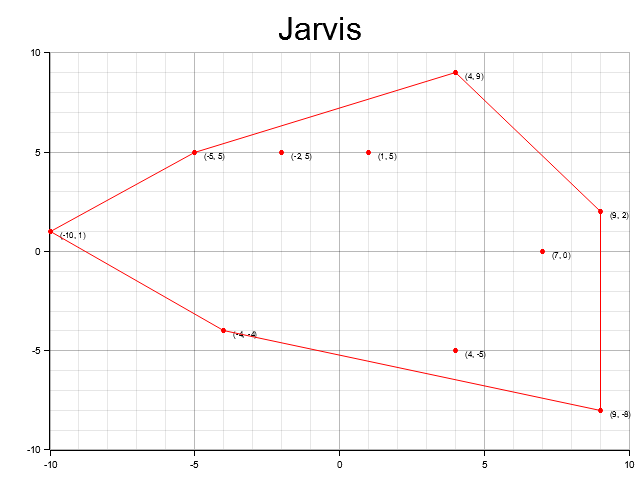
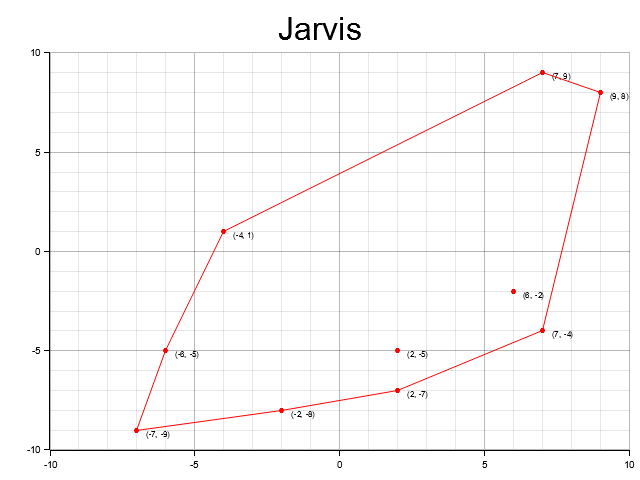
gen random points now has a count of points

diff --git a/src/main.rs b/src/main.rs
@@ -5,10 +5,10 @@ use jarvis::jarvismarch;
 use plotters::prelude::*;
 use point::Point;
 
-fn generate_random_points() -> Vec<Point> {
+fn generate_random_points(count_of_points: i32) -> Vec<Point> {
     let mut rng = rand::thread_rng();
     let mut points: Vec<Point> = Vec::new();
-    for _ in 0..10 {
+    for _ in 0..count_of_points {
         points.push(rng.gen::<Point>())
     }
     points
@@ -32,7 +32,7 @@ fn main() -> Result<(), Box<dyn std::error::Error>> {
         .y_label_formatter(&|x| format!("{:.3}", x))
         .draw()?;
 
-    let points = generate_random_points();
+    let points = generate_random_points(10);
 
     chart.draw_series(PointSeries::of_element(
         Point::get_tuples(points.clone()),

diff --git a/src/jarvis.rs b/src/jarvis.rs
@@ -14,7 +14,7 @@ pub fn jarvismarch(points: Vec<Point>) -> Option<Vec<Point>> {
     }
     let mut hull: Vec<Point> = Vec::new();
 
-    let mut p = p0;
+    let mut p = p0.clone();
     loop {
         hull.push(p);
         let index_of_p = points.iter().position(|&r| r == p).unwrap();
